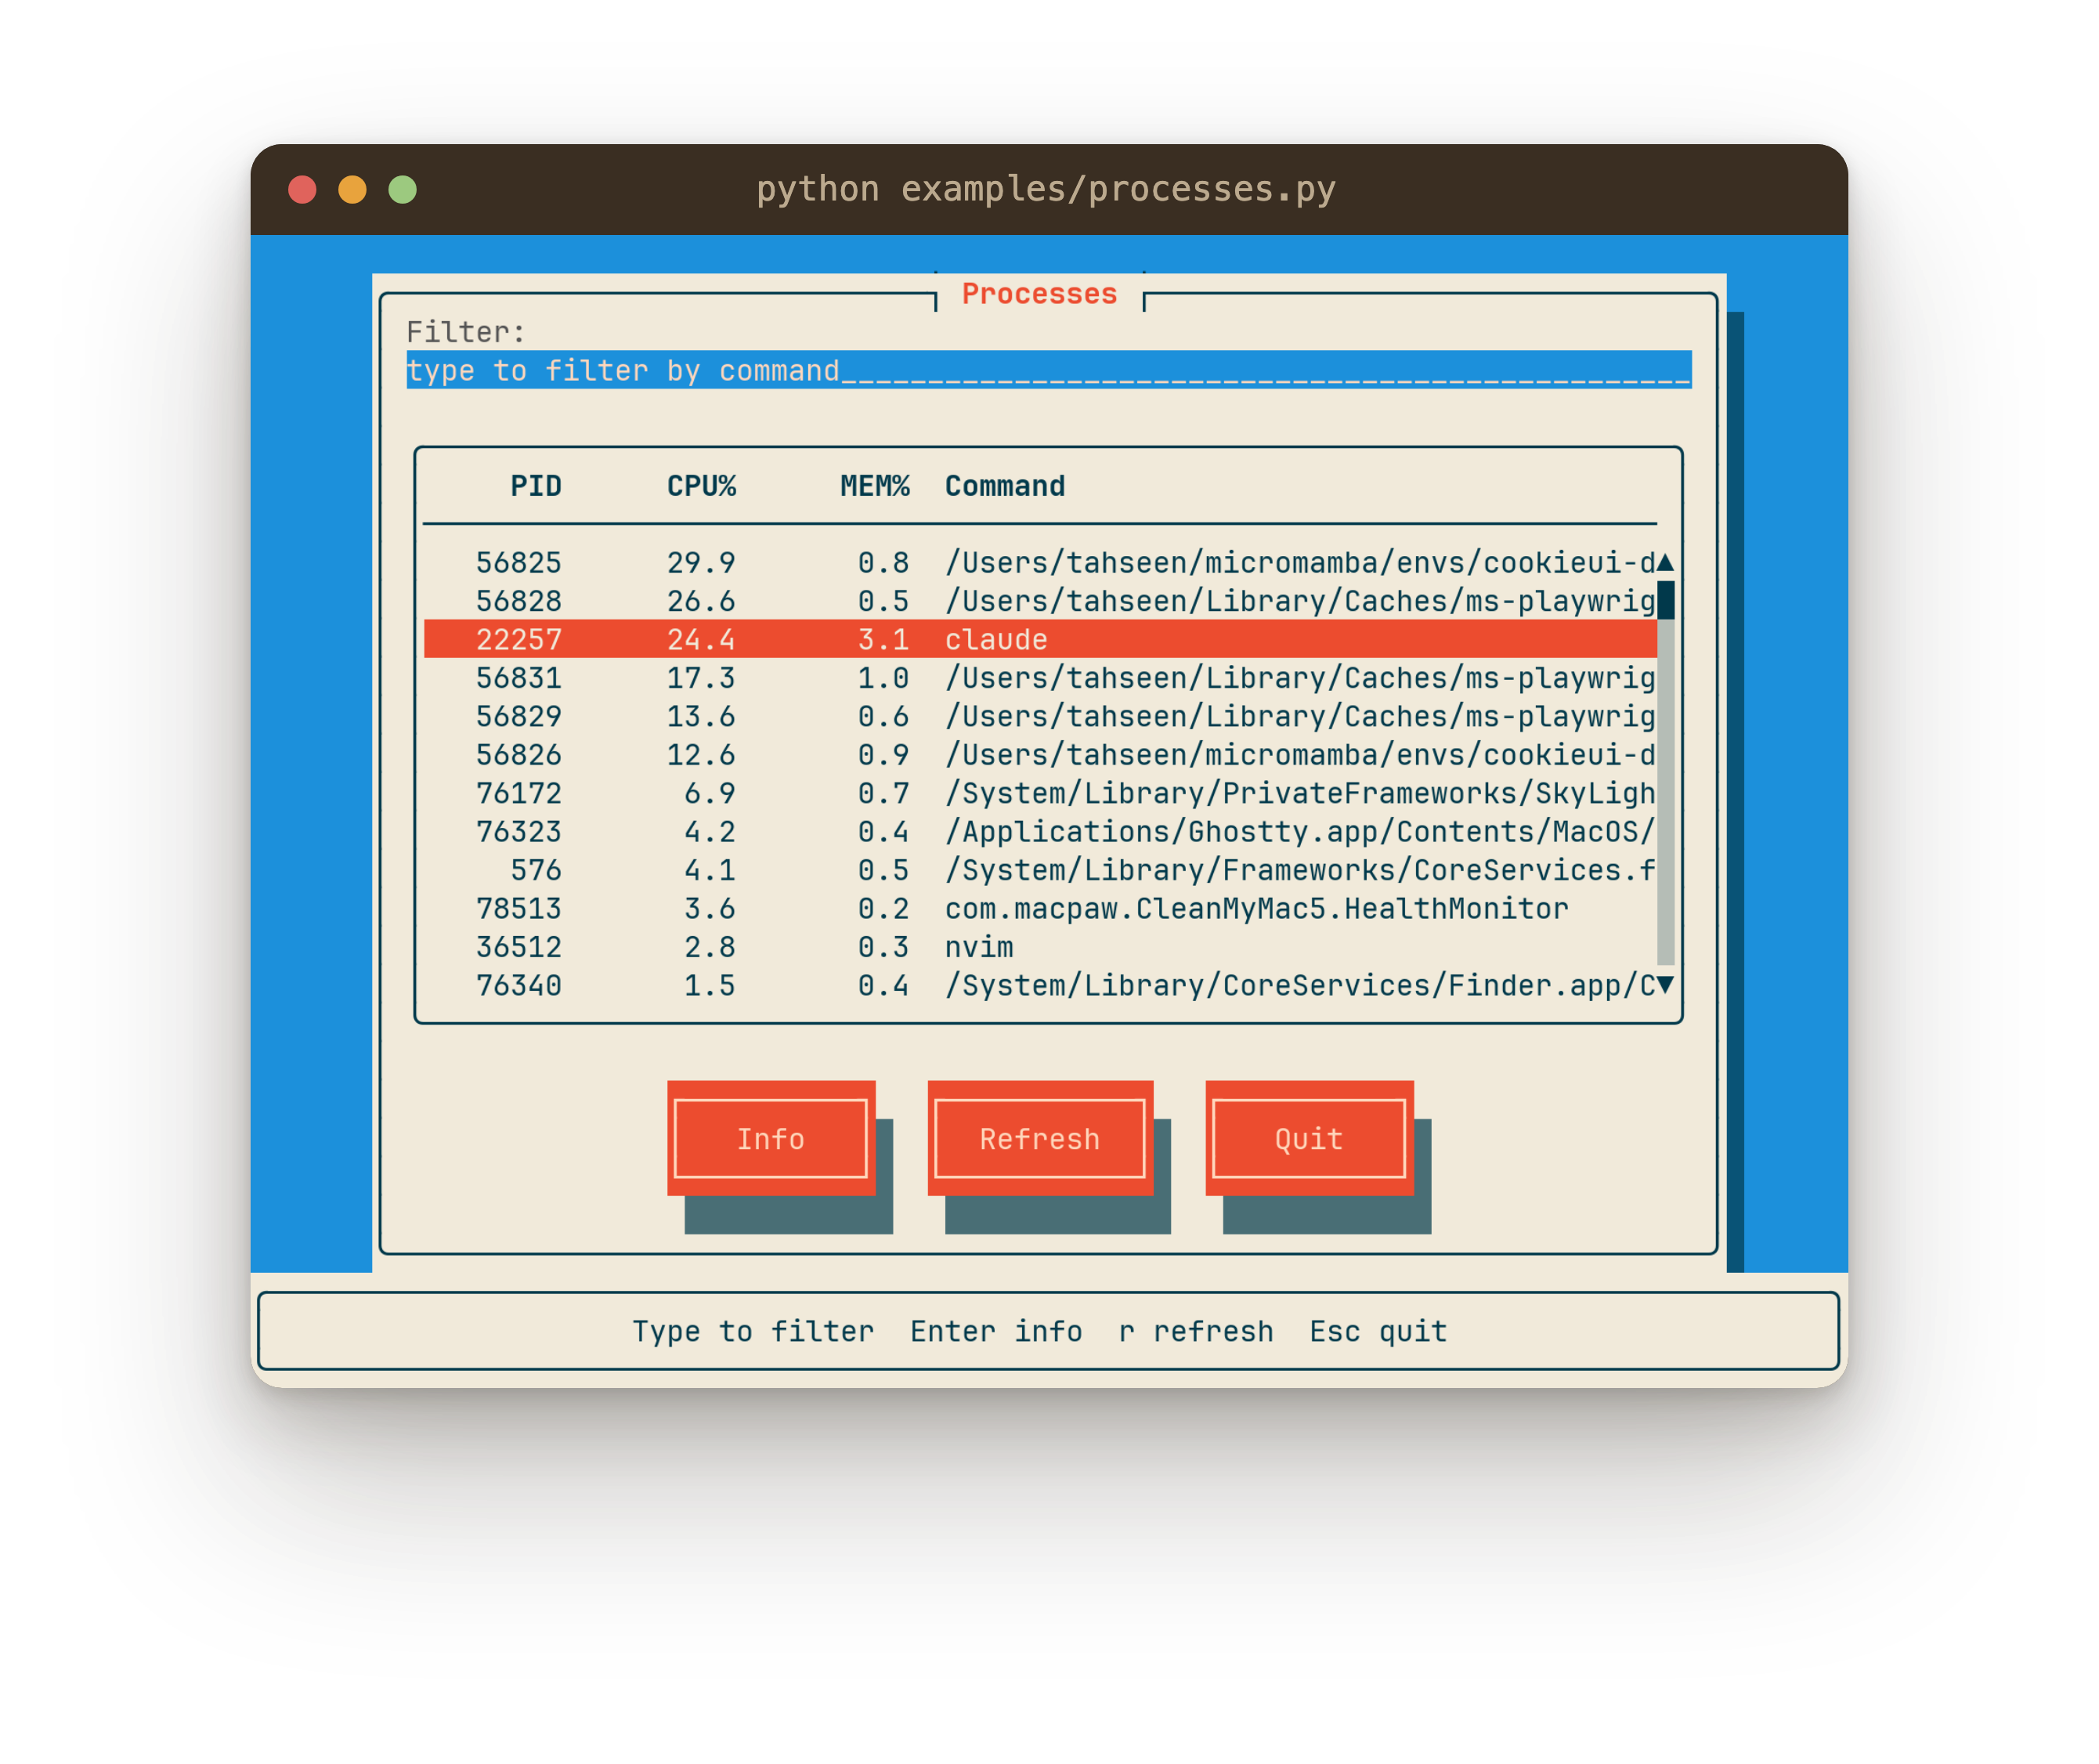
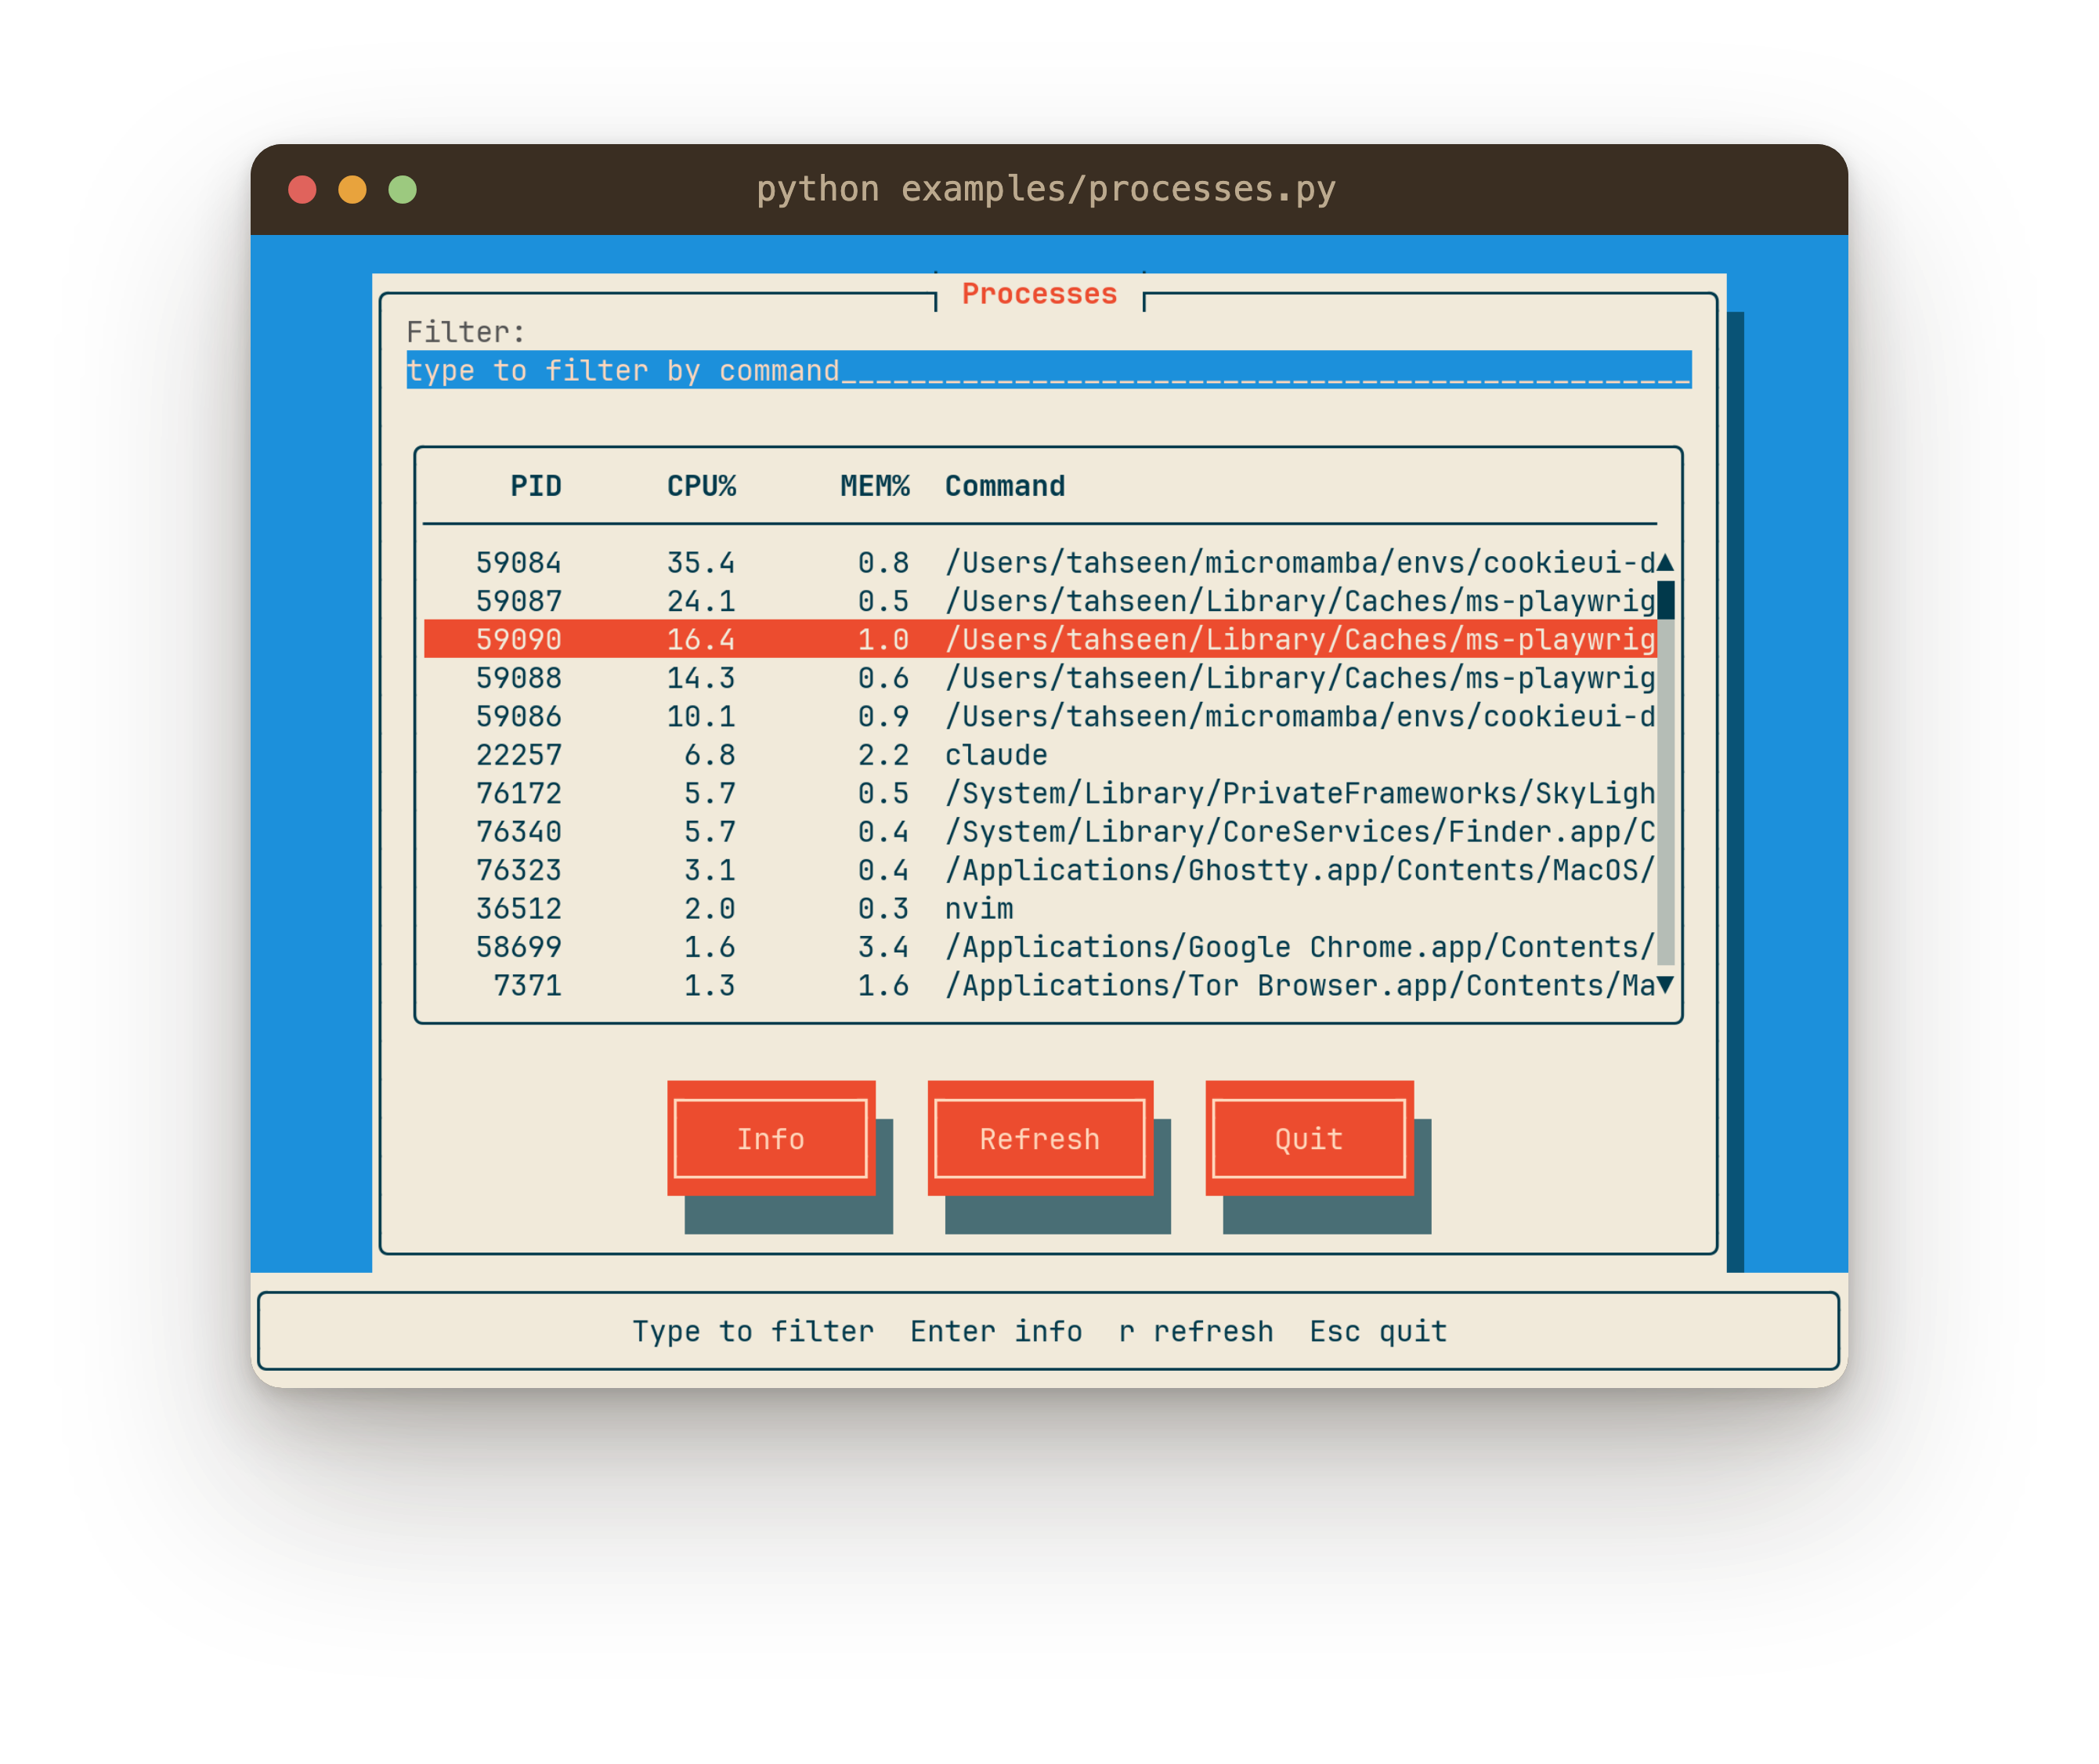
commander: progress bar in a framed Transfer window, status in a real bottom bar
Both were floating bare on the blue background. The shared progress bar now
lives in a 3-row 'Transfer' window under the panes (a 3-row window IS a frame +
title + content row, Ch 18), and the status line is a surface-filled bottom bar
instead of a label adrift on the backdrop. run_task still targets self.status,
so the action chapters are unchanged. 23 commander/example tests pass.

diff --git a/examples/commander.py b/examples/commander.py
@@ -28,7 +28,7 @@ import os
 import shutil
 import pathlib
 
-from cookieui import (TuiApp, View, FileBrowser, TextView, ProgressBar, Label,
+from cookieui import (TuiApp, View, Window, FileBrowser, TextView, ProgressBar, Label,
                       bind_key, bind_quit, stack_below)
 from cookieui.core.event import KeyType
 
@@ -116,7 +116,8 @@ class Commander(TuiApp):
 
     def build_view(self):
         view = View()
-        lwin, rwin = self.columns(view, 2, height=0.72, y=1)
+        H, W = self.ts.height(), self.ts.width()
+        lwin, rwin = self.columns(view, 2, height=H - 10, y=1)   # leave room below
         self.left = lwin.fill_with(FileBrowser, self.ldir,
                                    on_select=self.view_file,
                                    on_dir_change=lambda p: self._remember(0, p))
@@ -124,13 +125,22 @@ class Commander(TuiApp):
                                     on_select=self.view_file,
                                     on_dir_change=lambda p: self._remember(1, p))
 
-        # shared progress + status, stacked under the panes (shadow-aware)
+        # the shared progress bar lives in a framed 'Transfer' window under the
+        # panes — a 3-row window IS a frame + title + one content row (Ch 18)
         span = (rwin.x + rwin.width) - lwin.x
-        by = stack_below(lwin.y, lwin.height)
-        bar = ProgressBar(lwin.x, by, span)          # run_task adopts the sole bar
-        view.add(bar)
-        self.status = Label(lwin.x, by + 1, HINT, max_width=span)
-        view.add(self.status)
+        xfer = Window(lwin.x, stack_below(lwin.y, lwin.height), span, 3, title='Transfer')
+        view.add(xfer)
+        ix, iy, iw, _ = xfer.interior_rect()
+        bar = ProgressBar(ix, iy, iw)                # run_task adopts the sole bar
+        xfer.add(bar)
+
+        # a real status bar along the bottom row — surface-filled, not a bare
+        # label floating on the background — carrying the hint and outcomes
+        sbar = Window(0, H - 3, W, 3, shadow=False)
+        view.add(sbar)
+        sx, sy = sbar.interior()
+        self.status = Label(sx + 1, sy, HINT, max_width=W - 4)
+        sbar.add(self.status)
 
         bind_key(view, KeyType.CHAR, self.copy, char='c')
         bind_key(view, KeyType.CHAR, self.move, char='m')